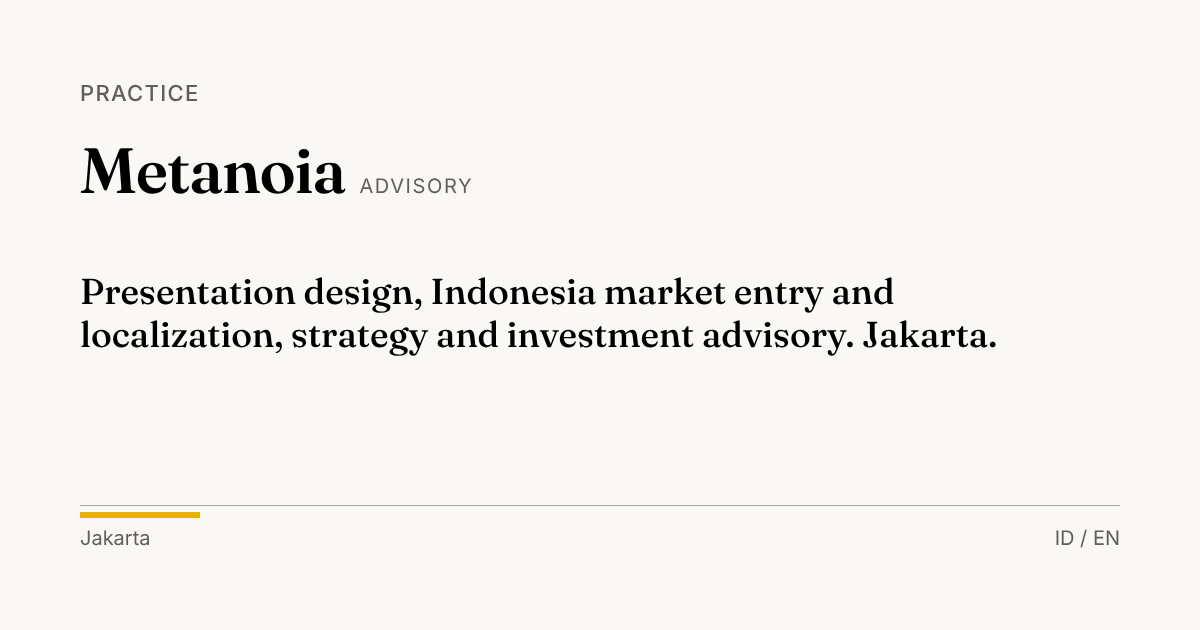
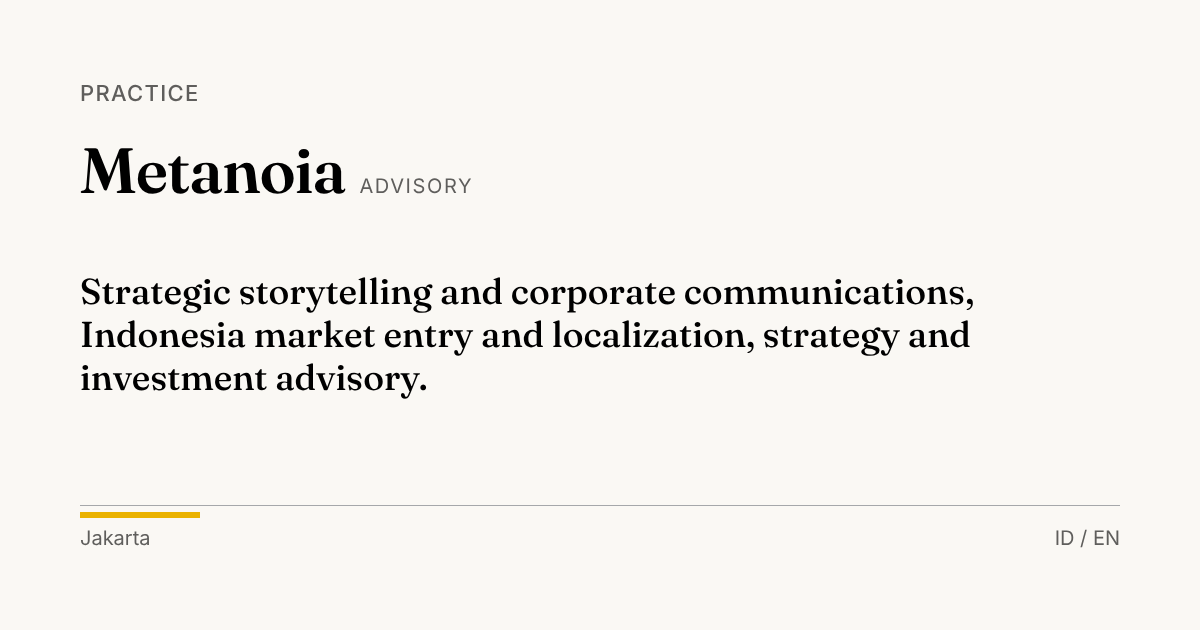
Revision 2.9: search positioning, copy review, new photographs
- Home title, description, Open Graph and structured data position the firm as Strategic Storytelling & Corporate Communications with advisory capabilities; service titles shortened
- All storytelling services button; complementary, hero and advisory intros reworded; About and conflicts statement updated
- Three new How-we-work photographs and the newsletter hero photograph
- British spelling, legal draft notices hidden in production, documented in the blueprint

Claude-Session: https://claude.ai/code/session_01HYFEZLPVQhke99xrbqmLzg

Changed region(s): [[0.0617, 0.4222, 0.8325, 0.6333]]

diff --git a/src/pages/pages.11tydata.js b/src/pages/pages.11tydata.js
@@ -38,7 +38,7 @@ export default {
       switch (data.pageKey) {
         case "home": return `${name} — ${L(pages.home.seoTitle, lang)}`;
         case "hub": return `${L(site.practiceNames[p.practice.key], lang)} — ${name}`;
-        case "service": return `${L(p.service.title, lang)} — ${L(site.practiceNames[p.service.practice], lang)} — ${name}`;
+        case "service": return `${L(p.service.title, lang)} — ${name}`;
         case "person": return `${p.person.name} — ${L(p.person.role, lang)} — ${name}`;
         case "article": return `${L(p.item.title, lang)} — ${name}`;
         case "legal": return `${L(pages.legal[p.key].title, lang)} — ${name}`;

diff --git a/docs/website-blueprint.md b/docs/website-blueprint.md
@@ -555,3 +555,18 @@ All rules sit inside the phone-only block (`max-width: 767.98px`); tablets and d
 | Touch targets | Complementary-row arrows 40 px; every button at least 46 px tall | Comfortable thumbs |
 
 **Measured after the revision.** No broken links, bilingual parity 100%, axe-core zero issues on the twelve tested templates; the sticky bar is confirmed hidden on desktop and at the foot of every page.
+
+---
+
+## 33. Revision 2.9 — positioning in search, copy review (1 November 2026)
+
+| # | Feedback point | What changed | Note |
+| --- | --- | --- | --- |
+| 1 | Search positioning | Home title is now "Metanoia Advisory — Strategic Storytelling & Corporate Communications"; the description names the advisory capabilities (strategic advisory, financial modelling, feasibility studies, investor relations). The same text feeds the Open Graph and Twitter tags. The ProfessionalService structured data gains `slogan` and a `knowsAbout` list of the seven capabilities. Service-page titles are now "Service — Metanoia Advisory" (the practice name made them overrun Google's 70-character display). The practice-page Open Graph image text and the AI express service description are reworded; the conflicts statement names the Strategic Storytelling practice | Google re-crawls on its own schedule; use Search Console → URL inspection → Request indexing on the home page to hurry it. The snippet shown in search can take days to update after a crawl |
+| 2 | Hero button | "All presentation services" is now "All storytelling services" (shared string) | Indonesian: "Semua layanan storytelling" |
+| 3 | Take the story further | Intro rewritten around strategic storytelling as the core expertise, with the same strategic thinking and design standard carried into wider content and brand communications | Hero and advisory intros reworded to the same positioning |
+| 4 | How we work photographs | Design team, Content structuring and Design execution use the three uploaded photographs, cropped to the cards' ratios and upscaled to 2× their rendered size | Originals in `assets-src/photos/` |
+| 5 | Company newsletters hero | The uploaded photograph is the page's hero, with the title emphasis on "newsletters" | 1,600 px WebP |
+| 6 | Content review | Every visible English string on the 29 production pages was extracted and read. Corrections: "organizations" → "organisations" (the site is British English; "Localization" in the practice name is kept as the firm's chosen proper noun and the Localization service title now matches it); the About page's "design practice" → "storytelling practice"; the "For counsel review" draft notices on the three legal pages no longer appear on the production site (they still show in previews, as a reminder to have counsel sign them off); the practice-name repetition in service titles removed. No spelling errors found; headings are one `h1` per page with ordered `h2`/`h3`; no broken links; no placeholder text | The legal pages remain drafts in substance: counsel should confirm the controller's legal name, processors and governing law before the firm relies on them |
+
+**Measured after the revision.** 68 pages, no broken links, bilingual parity 100%, axe-core zero issues on the twelve tested templates.
